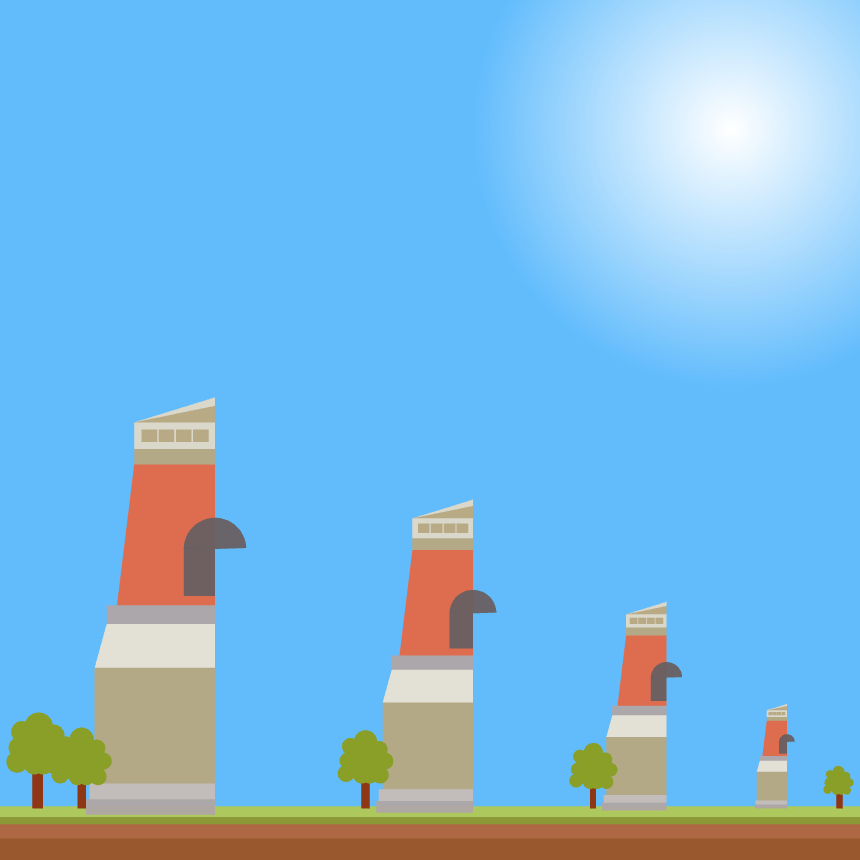
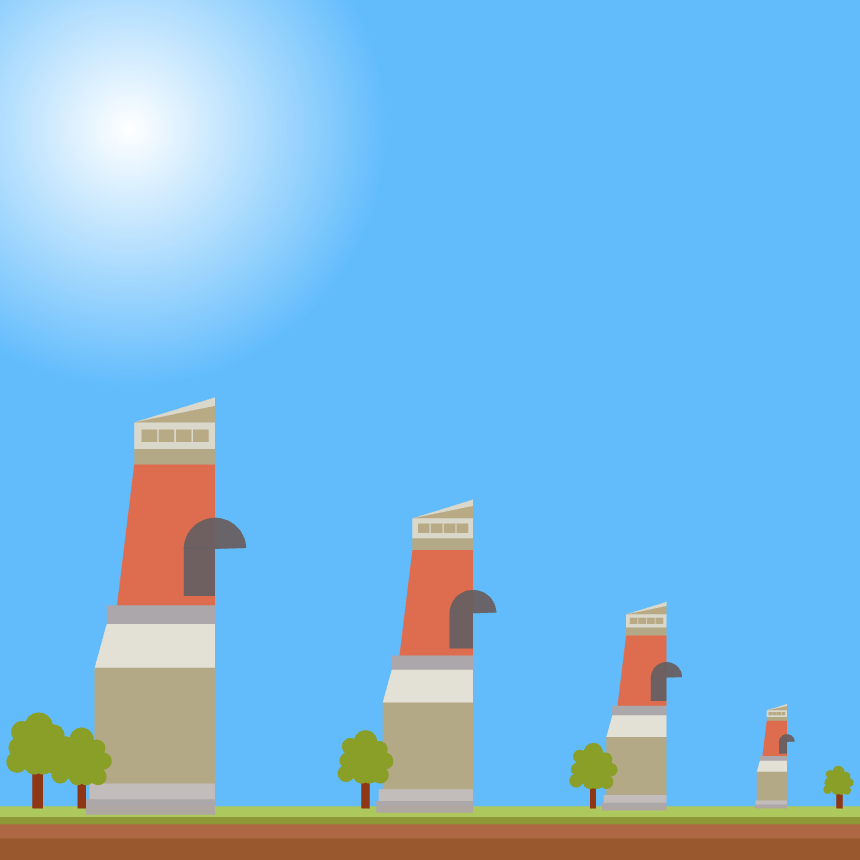
햇무리추가

Changed region(s): [[0.5744, 0.0, 1.0, 0.4233], [0.0, 0.0, 0.4233, 0.4233]]

diff --git a/termproject/project1/model/renderUtils_main.js b/termproject/project1/model/renderUtils_main.js
@@ -6,8 +6,8 @@ function loadGL(canvas, vec4_) {
     gl.clearColor(vec4_[0], vec4_[1], vec4_[2], vec4_[3]);
 
     // 주석을 지우면 alpha를 사용했을때 뒤에가 비친다.
-    // gl.enable(gl.BLEND);
-    // gl.blendFunc(gl.SRC_ALPHA, gl.ONE_MINUS_SRC_ALPHA);
+     gl.enable(gl.BLEND);
+     gl.blendFunc(gl.SRC_ALPHA, gl.ONE_MINUS_SRC_ALPHA);
 
     return gl;
 };
@@ -137,6 +137,63 @@ function drawCircle(gl, r, vec2_, vec4_, t = 1, subAngle = 0, mVertices, arr1, a
     //gl.drawArrays(gl.TRIANGLE_FAN, 0, mVertices.length / t_);
 };
 
+
+function drawCircle_GR(gl, r, vec2_, vec4_a, vec4_b, t = 1, subAngle = 0, mVertices, arr1, colors) {
+    const noOfFans = 200; // Vertice의 개수
+
+    const centerOfCircle = vec2_;
+
+    const anglePerFna = (2 * Math.PI) / noOfFans;
+
+    var x = vec2_[0];
+
+    var y = vec2_[1];
+
+    colors.push(vec4_a);
+
+    var t_;
+
+    var flag = t >= 0;
+
+    if (t < 1 && t > -1) t_ = 1;
+    else t_ = Math.abs(t);
+
+    var vd =Math.ceil(noOfFans/ t_);
+  
+
+    mVertices.push(centerOfCircle);
+    arr1.push(vd+2);
+    
+
+
+    if (flag)
+        for (var i = 0; i <= vd; i++) {
+            var angle = anglePerFna * (i + 1);
+            mVertices.push(
+                vec2(
+                    x + Math.cos(angle + subAngle) * r,
+                    y + Math.sin(angle + subAngle) * r
+                )
+            );
+            colors.push(vec4_b);
+        }
+    else
+        for (var i = 0; i <= vd; i++) {
+            var angle = anglePerFna * (i + 1);
+            mVertices.push(
+                vec2(
+                    x - Math.cos(angle + subAngle) * r,
+                    y + Math.sin(angle + subAngle) * r
+                )
+            );
+            colors.push(vec4_b);
+        }
+
+    // setGL(gl, mVertices, colors);
+
+    // gl.drawArrays(gl.TRIANGLE_FAN, 0, mVertices.length / t_);
+};
+
 function render(gl, mVertices, arr1, arr2)
 {
     setGL(gl, mVertices, arr2);
@@ -147,3 +204,5 @@ function render(gl, mVertices, arr1, arr2)
         k+=element;
     });
 }
+
+

diff --git a/termproject/project1/model/object.js b/termproject/project1/model/object.js
@@ -2,12 +2,13 @@
 var canvas;
 var gl;
 var rot = [
-    vec3(0, 1/6, 1),
-    vec3(0, 1/6, 1),
-    vec3(0, 1/6, 1),
-    vec3(0, 1/6, 1)
+    vec3(0, 1/12, 1),
+    vec3(0, 1/12, 1),
+    vec3(0, 1/12, 1),
+    vec3(0, 1/12, 1)
 ];
 var cloudValue = [];
+
 //speed
 var cloud = [
     0.003,
@@ -17,6 +18,8 @@ var cloud = [
     0.001,
     0.004
 ];
+
+var rainbow = 0.36;
 var rotBoolean = [
     true,true,true,true
 ];
@@ -41,6 +44,7 @@ function renderObjects() {
     renderNumber = [];
     gl.clear(gl.COLOR_BUFFER_BIT);
     initCloud();
+    initRainbow();
     initObject();
   
     render(gl,dots,renderNumber,colors);
@@ -118,6 +122,24 @@ function initObject() {
             rot[index][0] = value[0] + (value[1] * value[2]);
     });
 };
+
+function initRainbow()
+{
+    rainbow = getRandomArbitrary(0.355, 0.005);
+    drawRainbow();
+};
+
+function drawRainbow()
+{
+   drawCircle_GR(gl, rainbow, vec2(-0.7,0.7), vec4(0,0,0,0),vec4(1,0,0,0.07),1,0,dots,renderNumber,colors);
+     drawCircle_GR(gl, rainbow+0.09, vec2(-0.7,0.7), vec4(0,0,0,0),vec4(1,50/255,0,0.07),1,0,dots,renderNumber,colors);
+    drawCircle_GR(gl, rainbow+0.18, vec2(-0.7,0.7), vec4(0,0,0,0),vec4(1,1,0,0.07),1,0,dots,renderNumber,colors);
+    drawCircle_GR(gl, rainbow+0.27, vec2(-0.7,0.7), vec4(0,0,0,0),vec4(0,1,0,0.07),1,0,dots,renderNumber,colors);
+    drawCircle_GR(gl, rainbow+0.36, vec2(-0.7,0.7), vec4(0,0,0,0),vec4(0,0,1,0.07),1,0,dots,renderNumber,colors);
+    drawCircle_GR(gl, rainbow+0.45, vec2(-0.7,0.7), vec4(0,0,0,0),vec4(0,5/255,1,0.07),1,0,dots,renderNumber,colors);
+     drawCircle_GR(gl, rainbow+0.54, vec2(-0.7,0.7), vec4(0,0,0,0),vec4(100/255,0,1,0.1),1,0,dots,renderNumber,colors);
+};
+
 function drawCloud(x, y, mult, theta) {
     if (theta === void 0) { theta = PI * (0); }
     var mVertices = [

diff --git a/termproject/project1/main.html b/termproject/project1/main.html
@@ -64,7 +64,7 @@
     </select>
     <input type="button" id="stop" value="시작/정지">
     <input type="button" id="rotate" value="방향 변경">
-    <input type="range" id="range" min="0.0" max="100.0" value ="50" onchange="onChange(this.value)">
+    <input type="range" id="range" min="0.0" max="50.0" value ="25" onchange="onChange(this.value)">
     <br>
     <input type="button" id="startAll" value="전체 시작">
     <input type="button" id="stopAll" value="전체 정지">

diff --git a/termproject/project1/model/background.js b/termproject/project1/model/background.js
@@ -135,7 +135,7 @@ function drawTreeBar(vertex,r,g,b){
 
 function sunshine()
 {
-    drawCircle_GR(gl, 0.6,vec2(0.7,0.7),vec4(1,1,1,1),backgroundColor2);
+    drawCircle_GR(gl, 0.6,vec2(-0.7,0.7),vec4(1,1,1,1),backgroundColor2);
 };
 
 // 땅을 그리자
